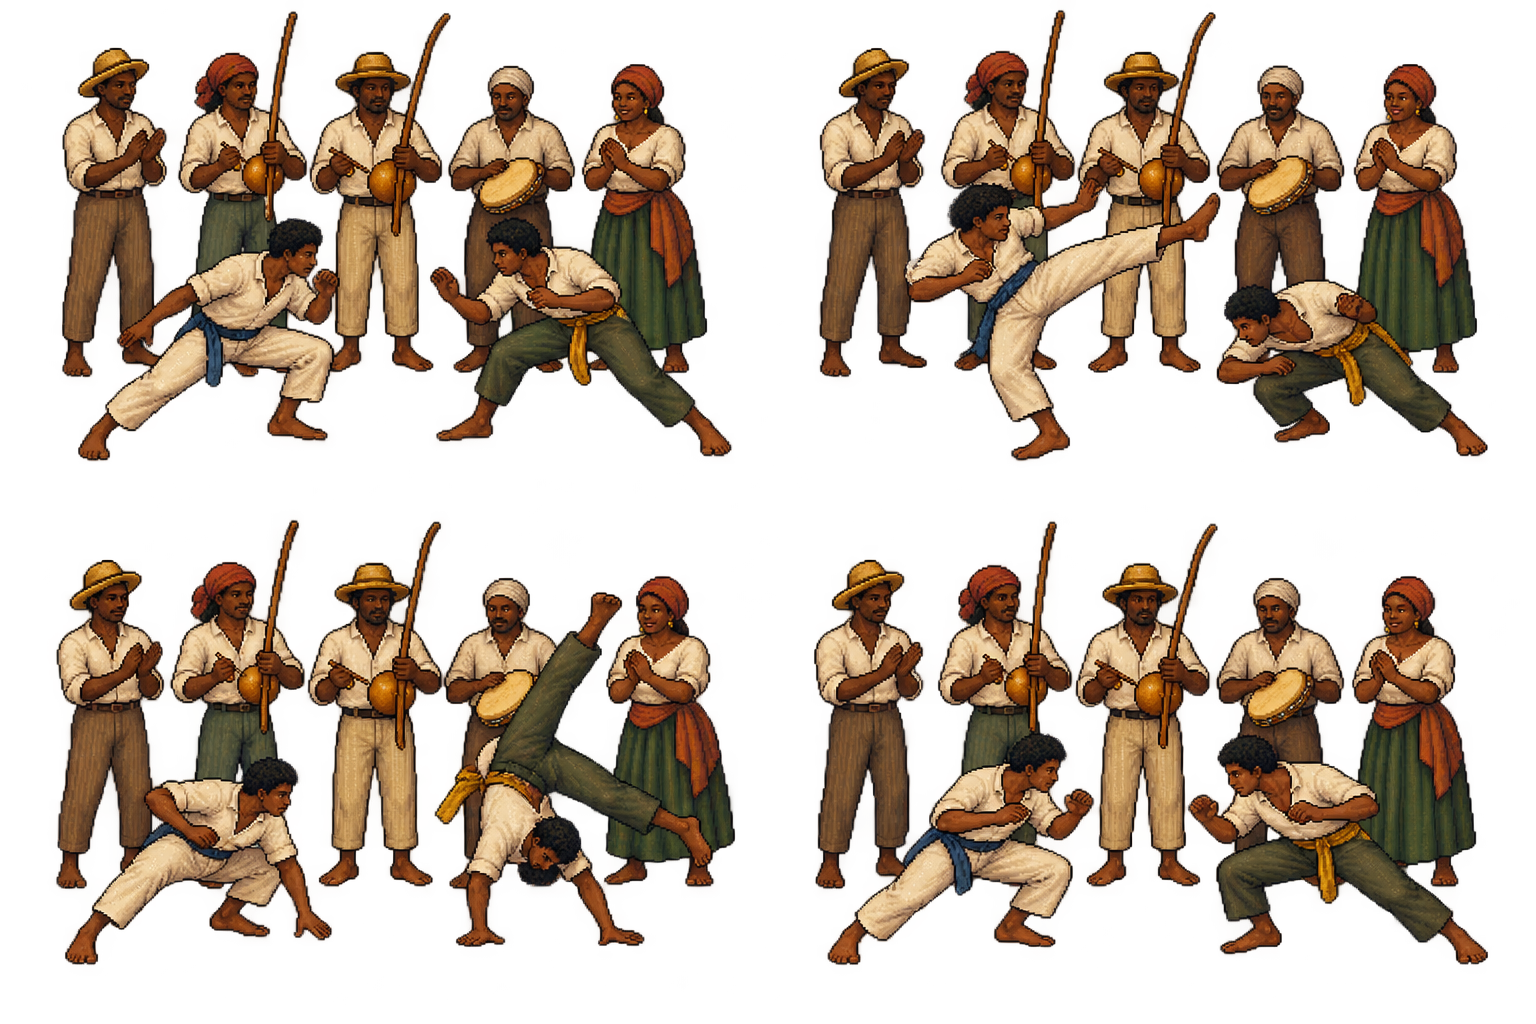
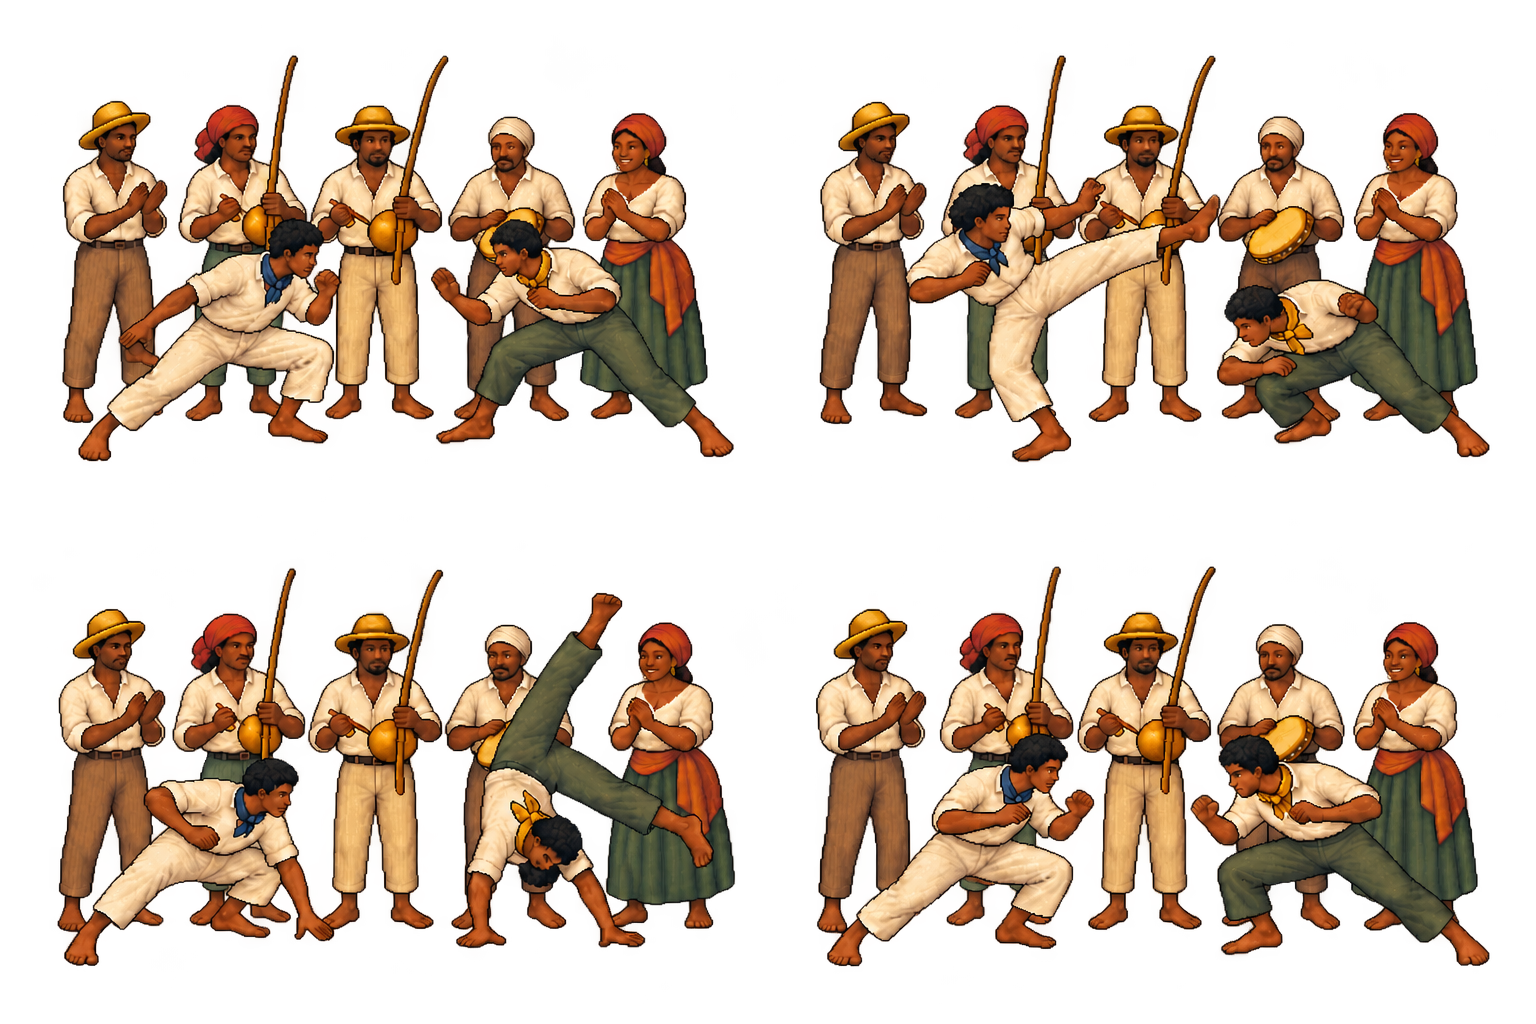
fix: ajusta indumentaria e linha da roda de capoeira

diff --git a/frontend/game/scene.ts b/frontend/game/scene.ts
@@ -143,9 +143,9 @@ export class CityScene extends Phaser.Scene {
       if (placement.drift && !this.reducedMotion) this.wanderers.push({image, placement});
     }
     if (id === 'cais_lanternas' && this.textures.exists('capoeira')) {
-      // The atlas feet baseline is y=480 in a 512px frame. Place that baseline
-      // on the walkable pavement, at the same ground_y as every person sprite.
-      const roda = this.add.sprite(745, groundY, 'capoeira', '0').setOrigin(.5, 480 / 512).setDepth(-2);
+      // Put the roda on the forward part of the promenade, clear of the seawall.
+      // The atlas feet baseline is y=480 in each 512px frame.
+      const roda = this.add.sprite(745, groundY + 20, 'capoeira', '0').setOrigin(.5, 480 / 512).setDepth(-2);
       roda.setDisplaySize(168, 112);
       if (!this.reducedMotion) roda.play('capoeira-roda');
       this.ambient.push(roda);

diff --git a/frontend/e2e/cycle-real.spec.ts b/frontend/e2e/cycle-real.spec.ts
@@ -30,7 +30,7 @@ test('relógio real do servidor gera crime, bloqueia a noite e retorna à banca'
     await page.screenshot({path: '../artifacts/cycle-capoeira.png', fullPage: true});
     const canvas = (await page.locator('canvas').boundingBox())!;
     const scale = canvas.width / 960;
-    const roda = {x: Math.round(canvas.x + 650 * scale), y: Math.round(canvas.y + 180 * scale),
+    const roda = {x: Math.round(canvas.x + 650 * scale), y: Math.round(canvas.y + 200 * scale),
       width: Math.round(190 * scale), height: Math.round(120 * scale)};
     const firstPose = await page.screenshot({clip: roda});
     await page.waitForTimeout(390);

diff --git a/docs/entrega_ciclo_investigacao.md b/docs/entrega_ciclo_investigacao.md
@@ -36,7 +36,7 @@ Artefatos locais ignorados pelo Git: `artifacts/cycle-evidence.png`, `artifacts/
 
 ## Arte e execução
 
-Assets finais gerados por **image_gen built-in**: `frontend/public/assets/ambient/clarim.png`, `capoeira.png` e `assets/press/crime-scene-snapshot.png`, acompanhados de atlas/proveniência JSON. A banca mantém a identidade verde e cobre; o Clarim agora tem uma página completa em preto e branco, com textura de papel, masthead, manchete, relato, localização e uma ilustração monocromática da madrugada. A imagem é uma cena de arquivo reutilizada, enquanto manchete, texto e local vêm da edição real. Os vinte apetrechos usam símbolos vetoriais com IDs iguais aos do catálogo em `assets/items/item-icons.svg`; o mesmo desenho é exibido ao recolher, apresentar e citar um vestígio. A roda fica à direita diante do poste, e sua linha de base coincide com `ground_y`, como nos personagens. A árvore que encobria o poste do cais foi removida do asset de fundo e da decoração.
+Assets finais gerados por **image_gen built-in**: `frontend/public/assets/ambient/clarim.png`, `capoeira.png` e `assets/press/crime-scene-snapshot.png`, acompanhados de atlas/proveniência JSON. A banca mantém a identidade verde e cobre; o Clarim agora tem uma página completa em preto e branco, com textura de papel, masthead, manchete, relato, localização e uma ilustração monocromática da madrugada. A imagem é uma cena de arquivo reutilizada, enquanto manchete, texto e local vêm da edição real. Os vinte apetrechos usam símbolos vetoriais com IDs iguais aos do catálogo em `assets/items/item-icons.svg`; o mesmo desenho é exibido ao recolher, apresentar e citar um vestígio. A roda fica à direita diante do poste, avançada para o passeio em primeiro plano; os músicos e capoeiristas pisam no calçamento. Os capoeiristas usam lenços no pescoço, sem cordas na cintura. A árvore que encobria o poste do cais foi removida do asset de fundo e da decoração.
 
 Prompts completos: [clarim-prompts.json](../frontend/public/assets/ambient/clarim-prompts.json), [capoeira-prompts.json](../frontend/public/assets/ambient/capoeira-prompts.json) e [snapshot-prompts.json](../frontend/public/assets/press/snapshot-prompts.json). O catálogo visual dos itens está em [manifest.json](../frontend/public/assets/items/manifest.json).
 

diff --git a/docs/art_direction.md b/docs/art_direction.md
@@ -53,7 +53,7 @@ Os cinco fundos foram simplificados por `image_gen built-in`, preservando os mar
 
 ## Linha de chão, jornal e vestígios
 
-Os personagens usam a origem `y=684/724` do manifesto e ficam na coordenada `ground_y` da localização. A roda de capoeira usa baseline virtual `480/512` e fica no lado direito, diante do poste, também alinhada ao `ground_y`; na versão anterior era posicionada em y=282, acima do passeio. A árvore decorativa em x=100 foi retirada, e a árvore em primeiro plano do fundo foi removida por image_gen, deixando o poste esquerdo do cais livre. A edição está registrada em `assets/locations/cais-lanternas-edit.json`.
+Os personagens usam a origem `y=684/724` do manifesto e ficam na coordenada `ground_y` da localização. A roda de capoeira usa baseline virtual `480/512`, fica à direita diante do poste e foi avançada 20 px para o passeio em primeiro plano (`ground_y + 20`), colocando os pés dos músicos no calçamento à frente da mureta. Os dois capoeiristas usam lenços no pescoço, sem cordas na cintura. A árvore decorativa em x=100 foi retirada, e a árvore em primeiro plano do fundo foi removida por image_gen, deixando o poste esquerdo do cais livre. A edição do fundo está registrada em `assets/locations/cais-lanternas-edit.json`; o prompt atualizado da roda está em `assets/ambient/capoeira-prompts.json`.
 
 O Clarim abre como uma página de jornal em preto e branco: textura e moldura de papel impresso, masthead com filetes duplos, dateline, manchete tipográfica, relato, localização e botão no estilo de tinta. A imagem monocromática `assets/press/crime-scene-snapshot.png` representa o registro jornalístico do acontecimento sem identificar culpado ou vítima. O arquivo é uma ilustração de arquivo compartilhada entre edições, não uma fotografia dinâmica específica de cada crime; título, relato e local são os dados reais da edição. Prompt, fonte e hash ficam em `assets/press/snapshot-prompts.json`.
 
